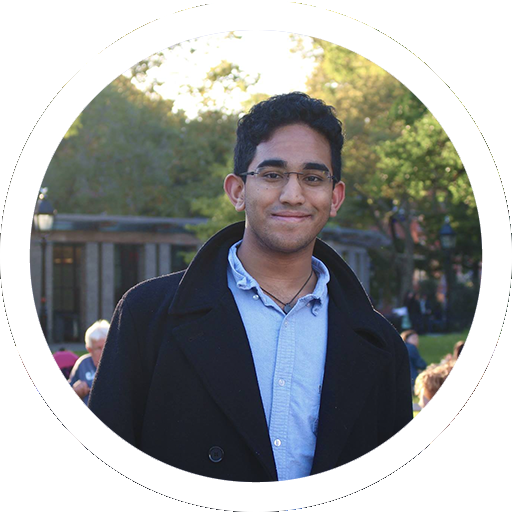
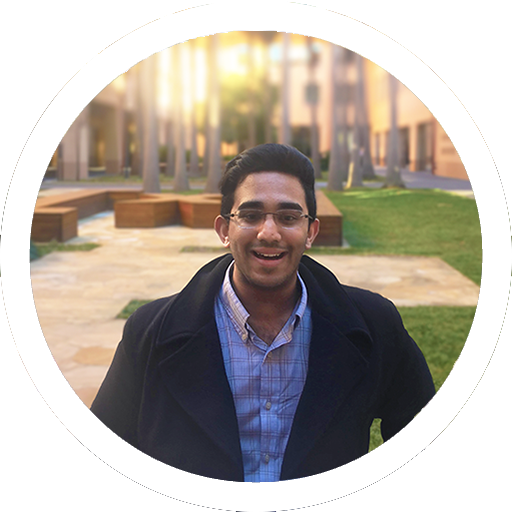
update profile picture

diff --git a/index.html b/index.html
@@ -42,8 +42,8 @@
             <h5>Curated projects and achievements</h5>
             <h1 class="header-headline" id="title"></h1>
             <h4 class="header-intro">I’m an award-winning designer, developer, and entrepreneur who combines the big picture with an obsession over fine details. I love creating products that delight users and add tangible value.</h4>
-            <a href="mailto:me@aneeshashutosh.com">
-                <button>Let's talk</button>
+            <a href="/projects">
+                <button>See my work.</button>
             </a>
         </div>
     </section>

diff --git a/css/index.css b/css/index.css
@@ -321,6 +321,7 @@ button {
 
 .banner-left-wrapper,
 .banner-right-wrapper {
+    overflow: hidden;
     position: relative;
 }
 
